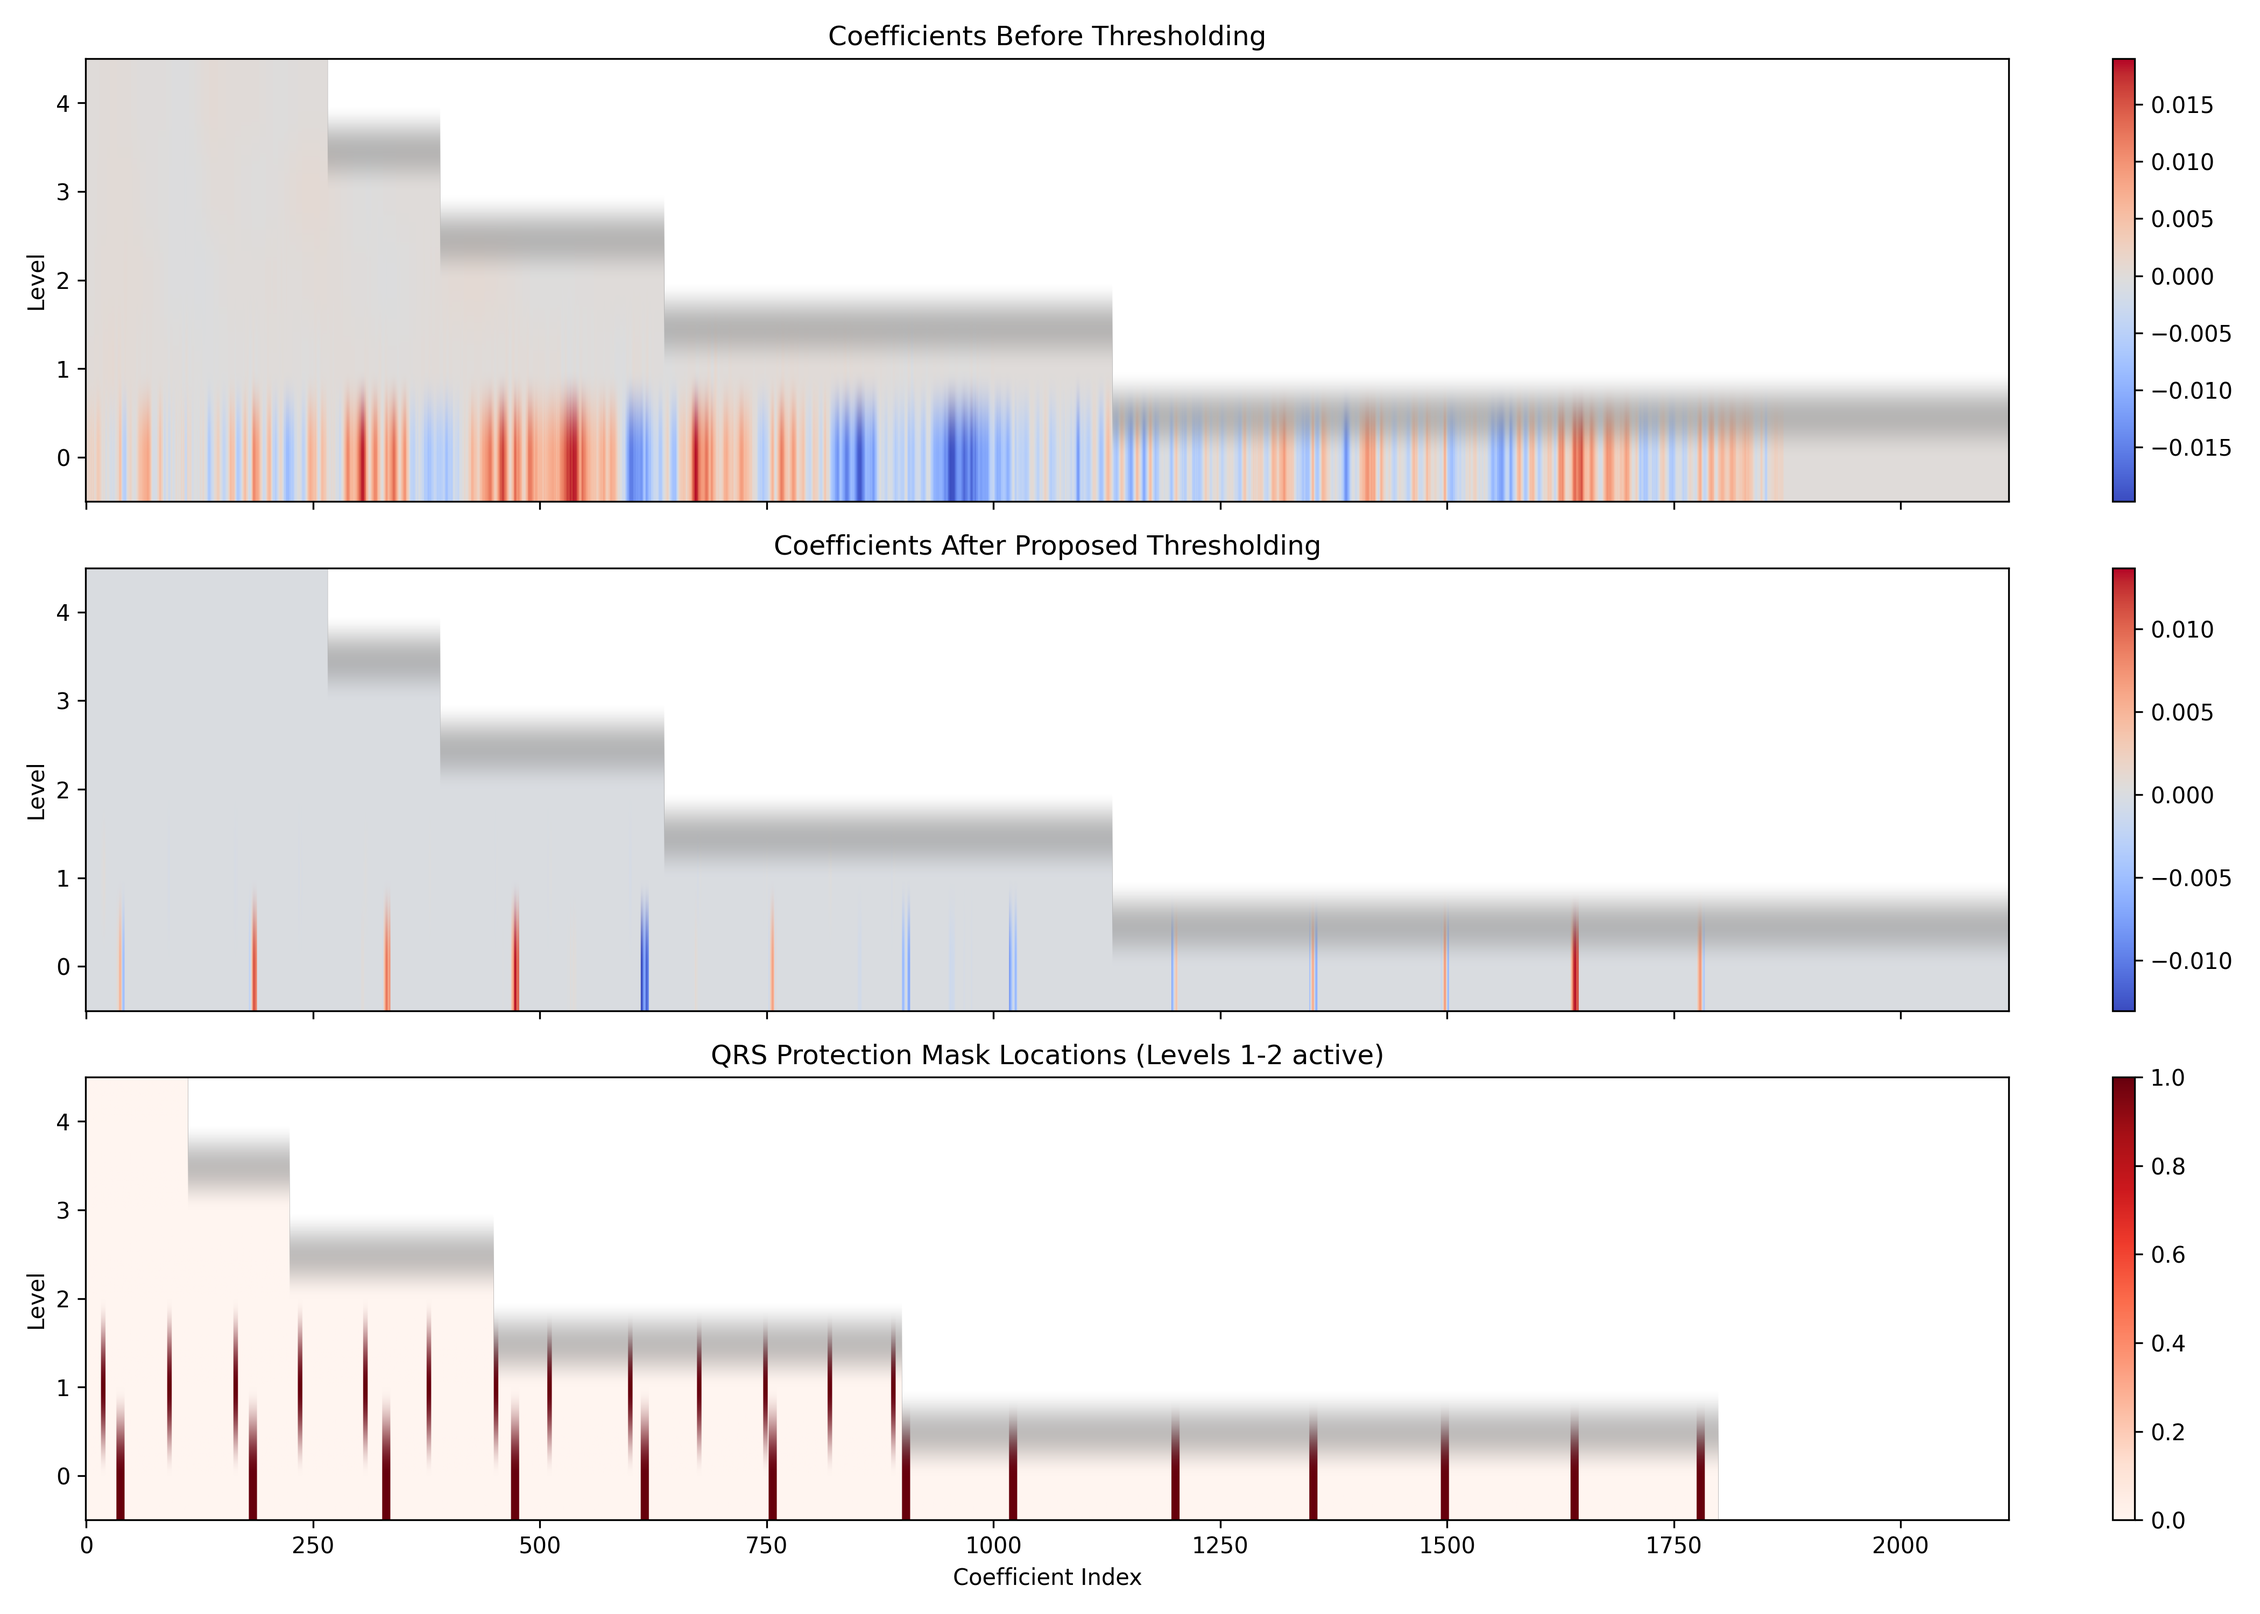
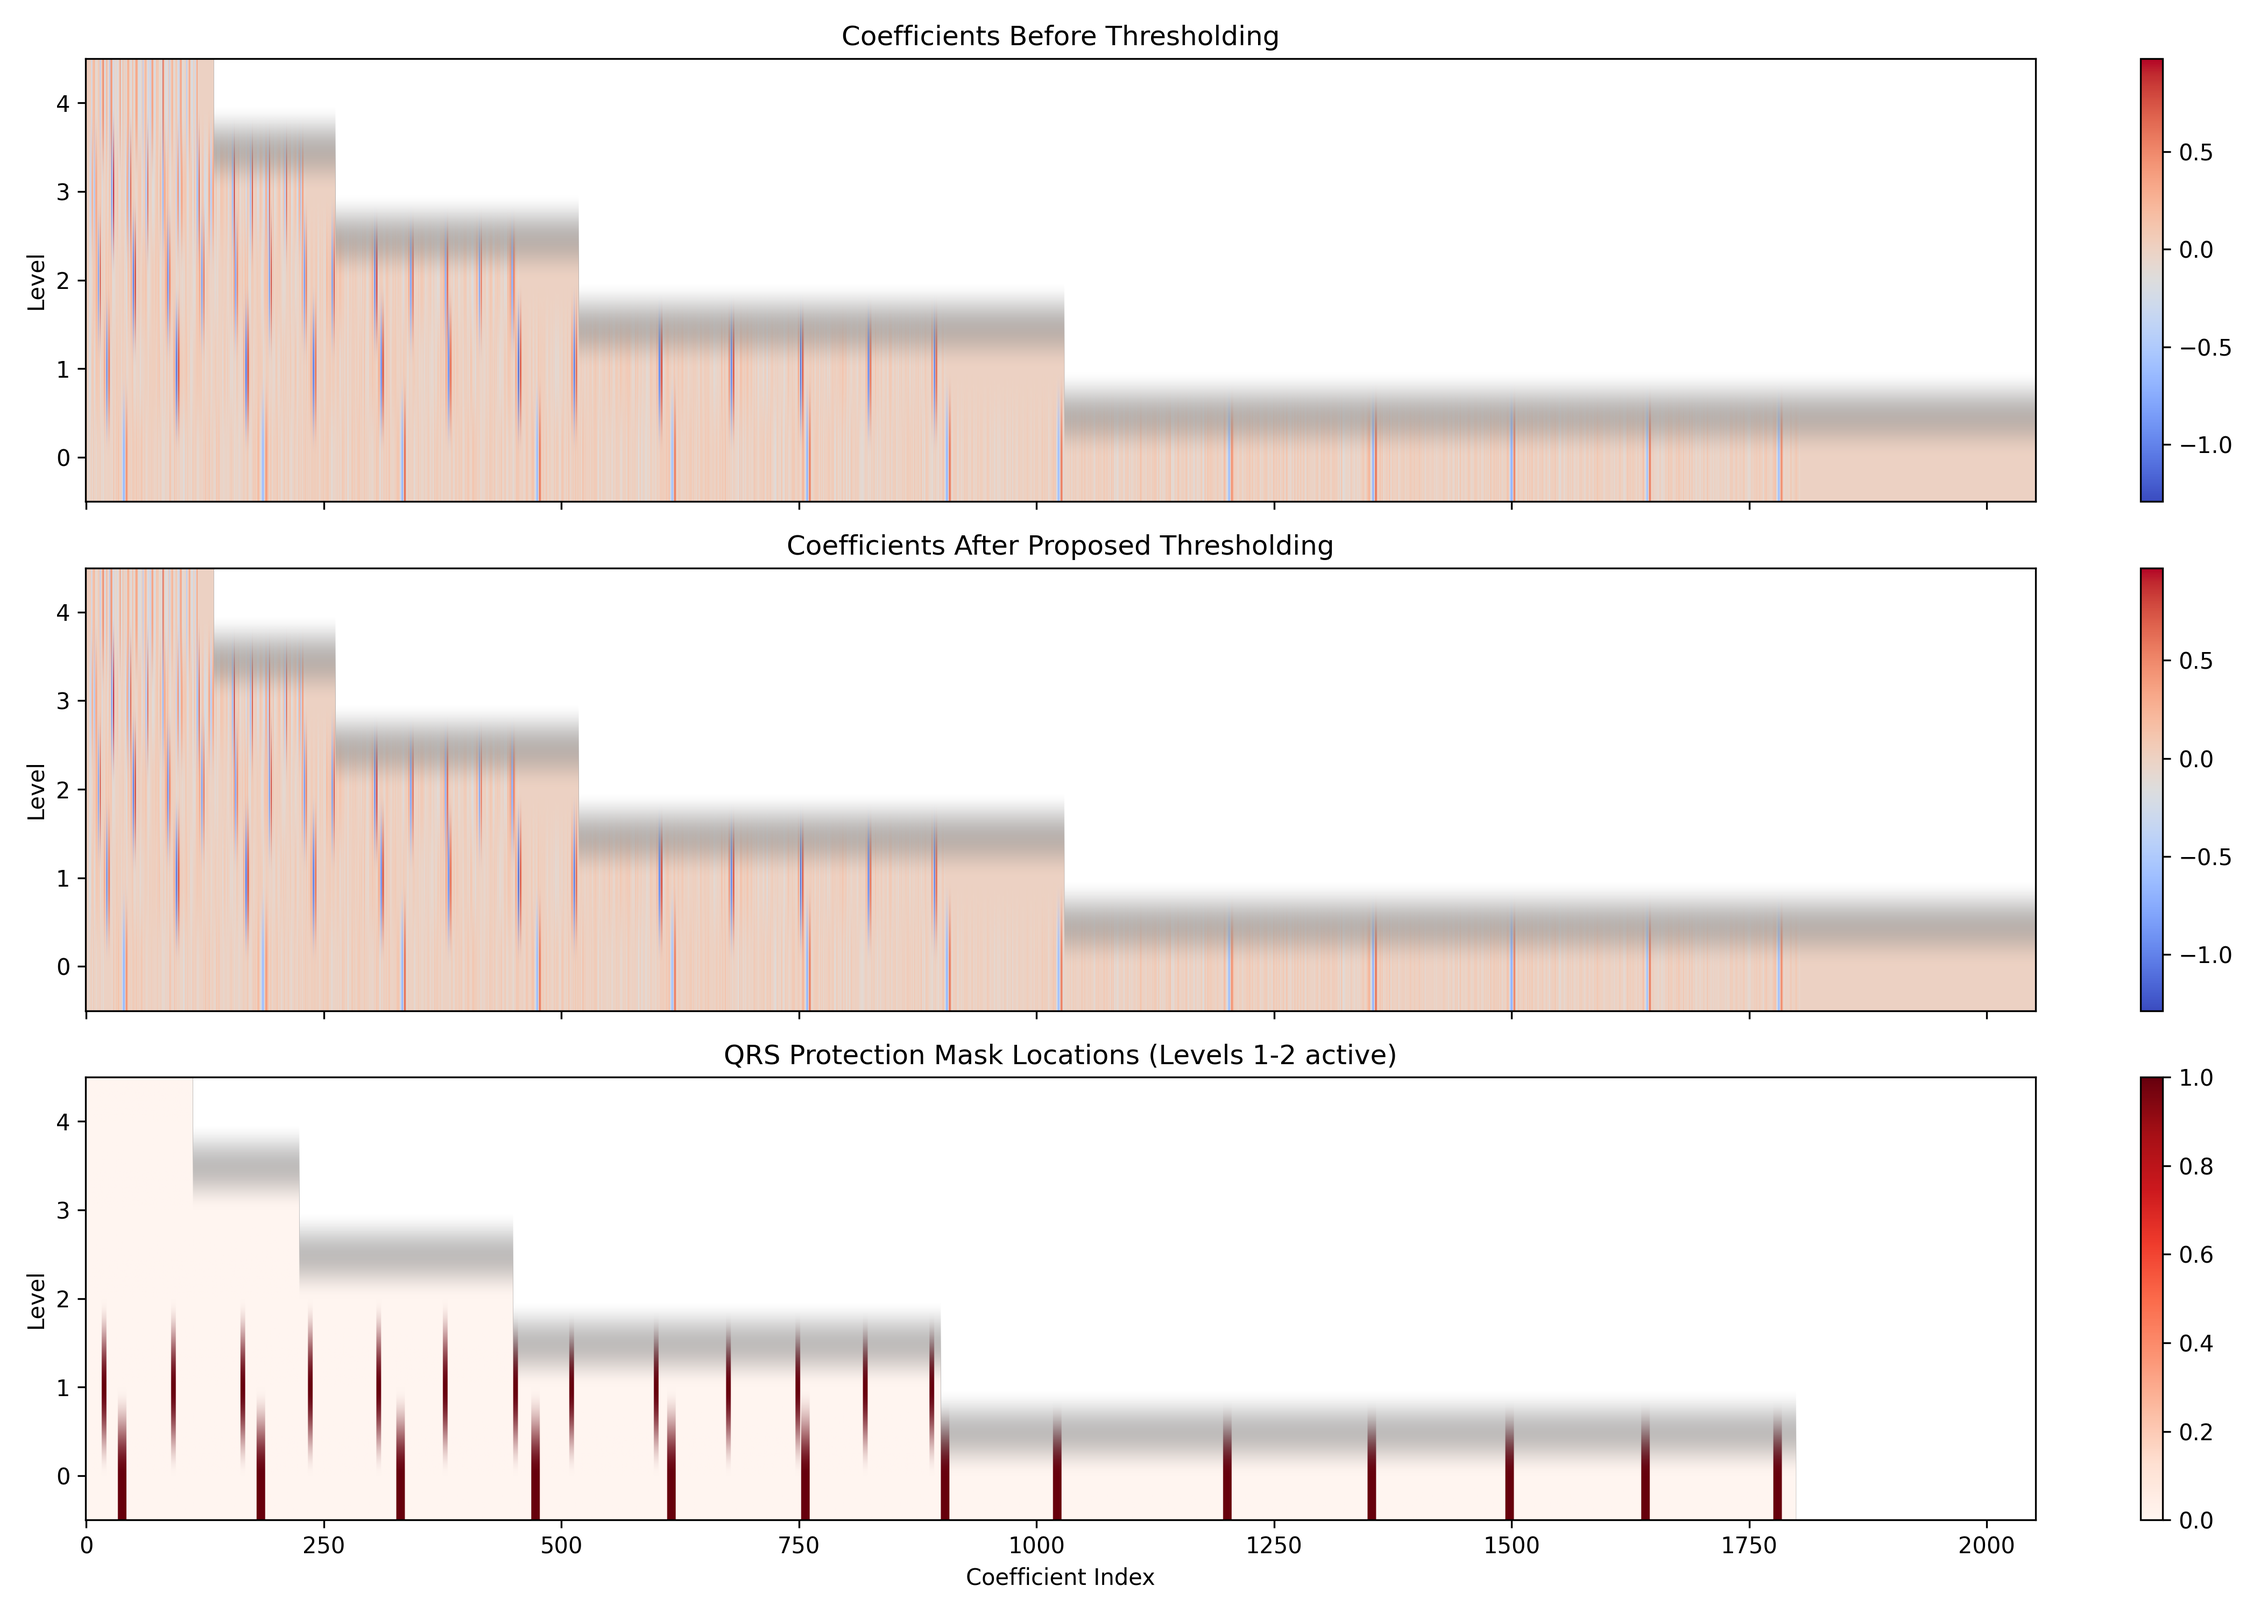
Stabilize custom wavelet filter bank with PR-constrained design and refresh results

diff --git a/novel_ecg_denoising.py b/novel_ecg_denoising.py
@@ -15,7 +15,7 @@ import pywt
 import wfdb
 from PyEMD import CEEMDAN
 from scipy.optimize import curve_fit
-from scipy.signal import butter, filtfilt, find_peaks, freqz, upfirdn
+from scipy.signal import butter, filtfilt, find_peaks, freqz, resample, upfirdn
 from scipy.signal.windows import tukey
 from skimage.metrics import structural_similarity as structural_similarity
 
@@ -224,6 +224,52 @@ def _iterative_scaling_function(h: np.ndarray, iterations: int = 9) -> np.ndarra
     return phi
 
 
+def _orthogonality_error(h: np.ndarray) -> float:
+    """Sum of squared even-shift autocorrelation terms (k>0)."""
+    l = len(h)
+    err = 0.0
+    for k in range(1, l // 2):
+        s = 0.0
+        for n in range(l):
+            m = n - 2 * k
+            if 0 <= m < l:
+                s += h[n] * h[m]
+        err += s * s
+    return float(err)
+
+
+def _design_pr_constrained_filter(target: np.ndarray, length: int = 8) -> np.ndarray:
+    """
+    Project a morphology target to a short, near-orthogonal low-pass filter.
+    This keeps morphology influence while enforcing stable reconstruction behavior.
+    """
+    tgt = np.asarray(target, dtype=float)
+    tgt = resample(tgt, length)
+    tgt = tgt - np.min(tgt)
+    tgt = tgt / (np.linalg.norm(tgt) + EPS)
+
+    db4 = np.asarray(pywt.Wavelet("db4").dec_lo, dtype=float)
+    x0 = db4 if len(db4) == length else resample(db4, length)
+
+    def objective(h_raw: np.ndarray) -> float:
+        h = np.asarray(h_raw, dtype=float)
+        sum_err = (np.sum(h) - math.sqrt(2.0)) ** 2
+        norm_err = (np.sum(h * h) - 1.0) ** 2
+        ortho_err = _orthogonality_error(h)
+        shape_err = np.mean((h - tgt) ** 2)
+        return 800.0 * ortho_err + 200.0 * sum_err + 60.0 * norm_err + 1.0 * shape_err
+
+    from scipy.optimize import minimize
+
+    res = minimize(objective, x0=x0, method="L-BFGS-B", options={"maxiter": 2000})
+    h = np.asarray(res.x if res.success else x0, dtype=float)
+
+    # Final normalization pass to keep low-pass gain consistent.
+    h = h / (np.sum(h) + EPS) * math.sqrt(2.0)
+    h = h / (math.sqrt(np.sum(h * h)) + EPS)
+    return h
+
+
 def build_custom_wavelet(params: np.ndarray, t: np.ndarray) -> Tuple[np.ndarray, np.ndarray, np.ndarray, np.ndarray, np.ndarray]:
     """Build custom mother wavelet, scaling function, and FIR filter bank."""
     morphology = _gaussian_mixture_3(t, *params)
@@ -239,10 +285,8 @@ def build_custom_wavelet(params: np.ndarray, t: np.ndarray) -> Tuple[np.ndarray,
     phi_seed = phi_seed - np.min(phi_seed) + EPS
     phi_seed = phi_seed / (np.linalg.norm(phi_seed) + EPS)
 
-    h = phi_seed.copy()
-    if len(h) % 2 == 1:
-        h = h[:-1]
-    h = h / (np.sum(h) + EPS) * math.sqrt(2.0)
+    # Use short PR-constrained analysis filter to avoid reconstruction collapse.
+    h = _design_pr_constrained_filter(phi_seed, length=8)
 
     # Quadrature mirror high-pass for orthogonal-like perfect reconstruction pair.
     g = ((-1.0) ** np.arange(len(h))) * h[::-1]
